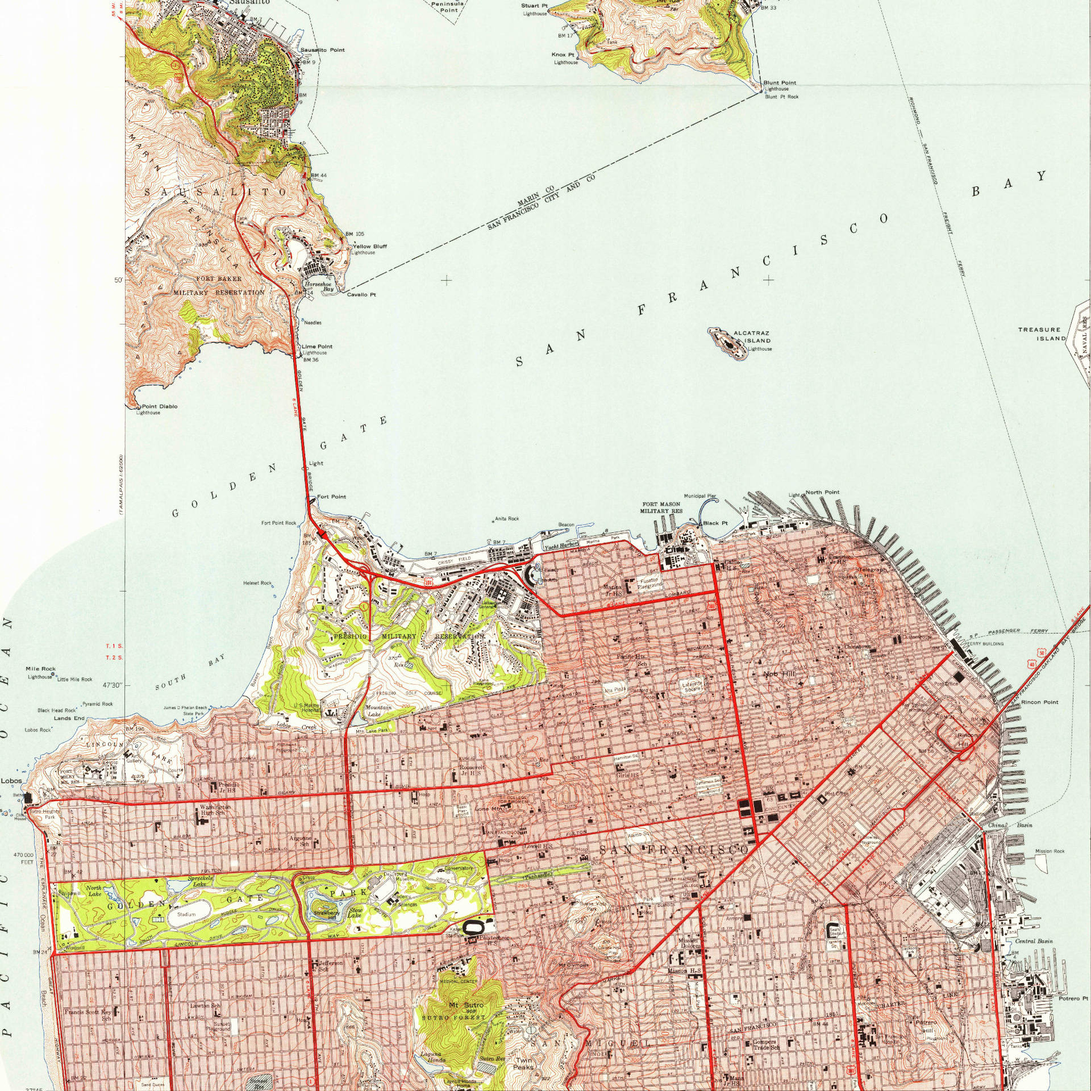
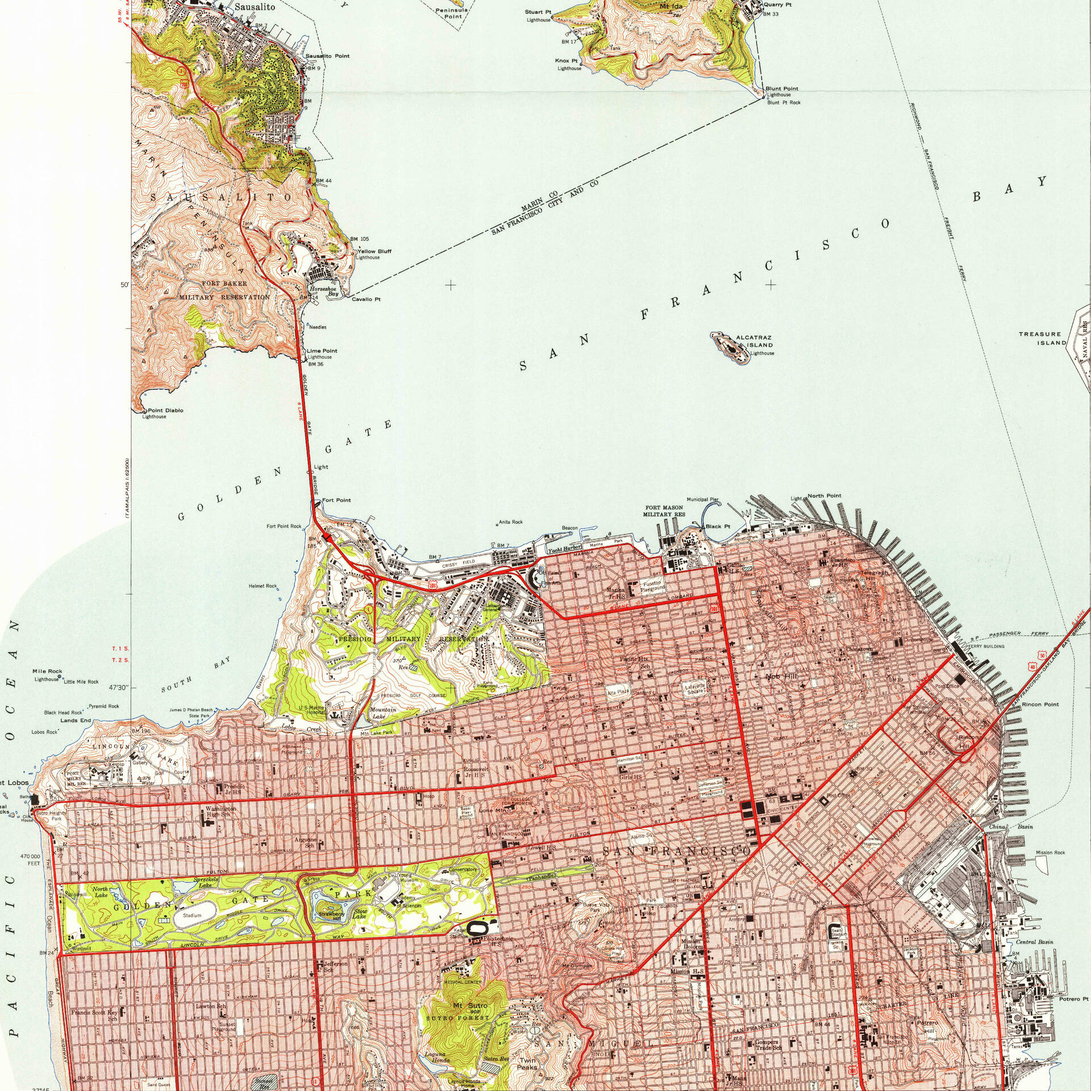
Resize the other northern SF ones also

diff --git a/index.html b/index.html
@@ -34,6 +34,6 @@
     <div class="map"
 	 style="background-image: url('CA_San Francisco North_363065_1956_24000.jpg');"></div>
     <div class="map"
-	 style="background-image: url('CA_San Francisco North_295005_1993_24000.jpeg');"></div>
+	 style="background-image: url('CA_San Francisco North_295005_1993_24000.jpg');"></div>
   </body>
 </html>

diff --git a/resize.py b/resize.py
@@ -4,13 +4,48 @@
 
 import subprocess
 
-def run_convert(args):
+def run_magick(args):
     print(args)
-    subprocess.run(['/usr/local/bin/convert'] + args)
+    subprocess.run(['/usr/local/bin/magick'] + args)
 
+def crop(path_in, path_out, bottom, left, right):
+    # bottom: pixels bottom edge to 37 degrees 45 minutes north
+    # left: pixels left edge to 122 degrees 30 seconds west
+    # right: pixels right edge to 122 degrees 22 minutes 30 seconds west
+
+    width = int(subprocess.run(
+        args=[
+            'identify',
+            '-format',
+            '%w',
+            path_in
+        ],
+        capture_output=True,
+        encoding='utf-8'
+    ).stdout)
+
+    # We not have a reference point west of 122 degrees 30 seconds
+    # But we want to crop two minutes farther west
+    pixels_per_minute_latitude = (width - left - right) / 22
+    crop_x = left - (3 * pixels_per_minute_latitude)
+    crop_width = pixels_per_minute_latitude * 25
+
+    run_magick([
+        'convert',
+        path_in,
+        '-gravity',
+        'SouthWest',
+        '-crop',
+        '{}x{}+{}+{}'.format(crop_width, crop_width, crop_x, bottom),
+        '+repage',
+        '-resize',
+        '{}x{}'.format(1920, 1920),
+        path_out
+    ])
 
 # First knit together the 1993 map
-run_convert([
+run_magick([
+    'convert',
     'originals/CA_San Francisco North_295005_1993_24000.jpg',
     '-gravity',
     'SouthWest',
@@ -19,7 +54,8 @@ run_convert([
     '+repage',
     '1993_right.jpg'
 ])
-run_convert([
+run_magick([
+    'convert',
     'originals/CA_Point Bonita_294258_1993_24000.jpg',
     '-gravity',
     'SouthWest',
@@ -28,9 +64,41 @@ run_convert([
     '+repage',
     '1993_left.jpg',
 ])
-run_convert([
+run_magick([
+    'convert',
     '1993_left.jpg',
     '1993_right.jpg',
     '+append',
     '1993_joined.jpg'
 ])
+
+# Crop and resize everything
+crop(
+    'originals/CA_San Francisco North_300059_1947_24000.jpg',
+    'CA_San Francisco North_300059_1947_24000.jpg',
+    bottom=657,
+    left=510,
+    right=224
+)
+crop(
+    'originals/CA_San Francisco North_300060_1950_24000.jpg',
+    'CA_San Francisco North_300060_1950_24000.jpg',
+    bottom=422,
+    left=468,
+    right=188
+)
+crop(
+    'originals/CA_San Francisco North_363065_1956_24000.jpg',
+    'CA_San Francisco North_363065_1956_24000.jpg',
+    bottom=418,
+    left=495,
+    right=229
+)
+crop(
+    '1993_joined.jpg',
+    'CA_San Francisco North_295005_1993_24000.jpg',
+    bottom=0,
+    left=2710,
+    right=0
+)
+
